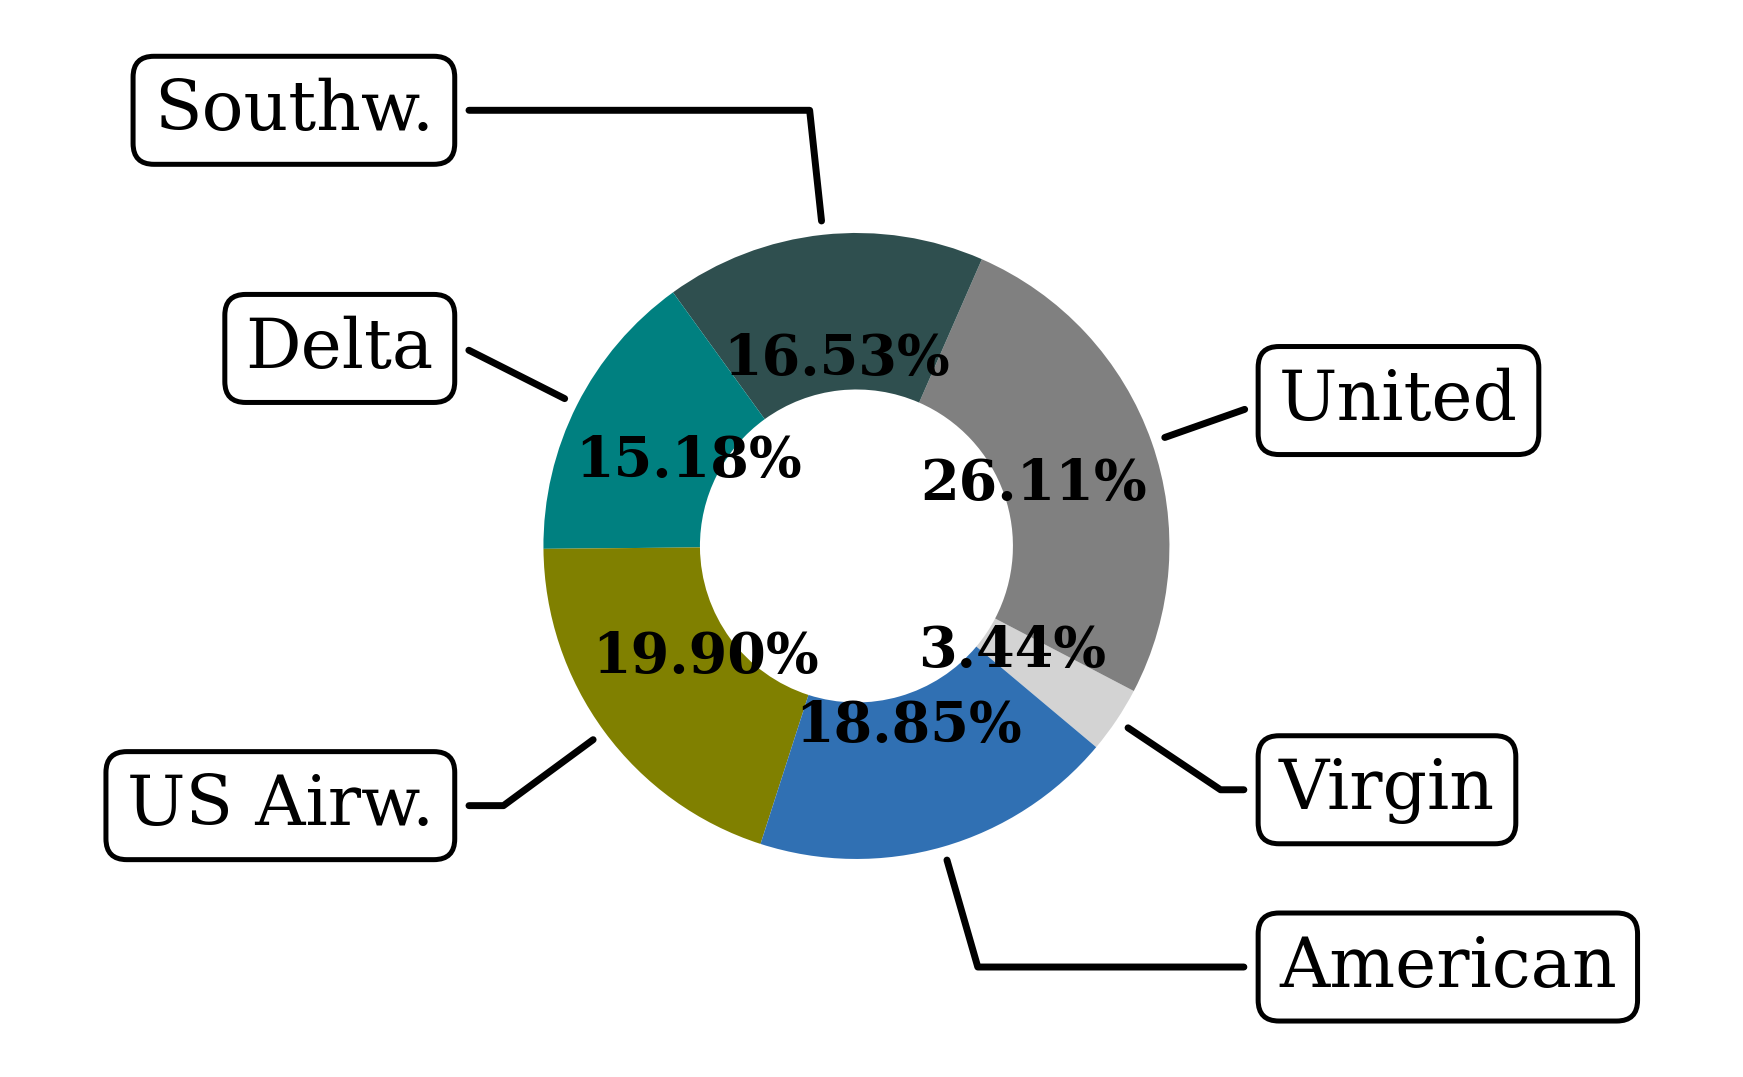
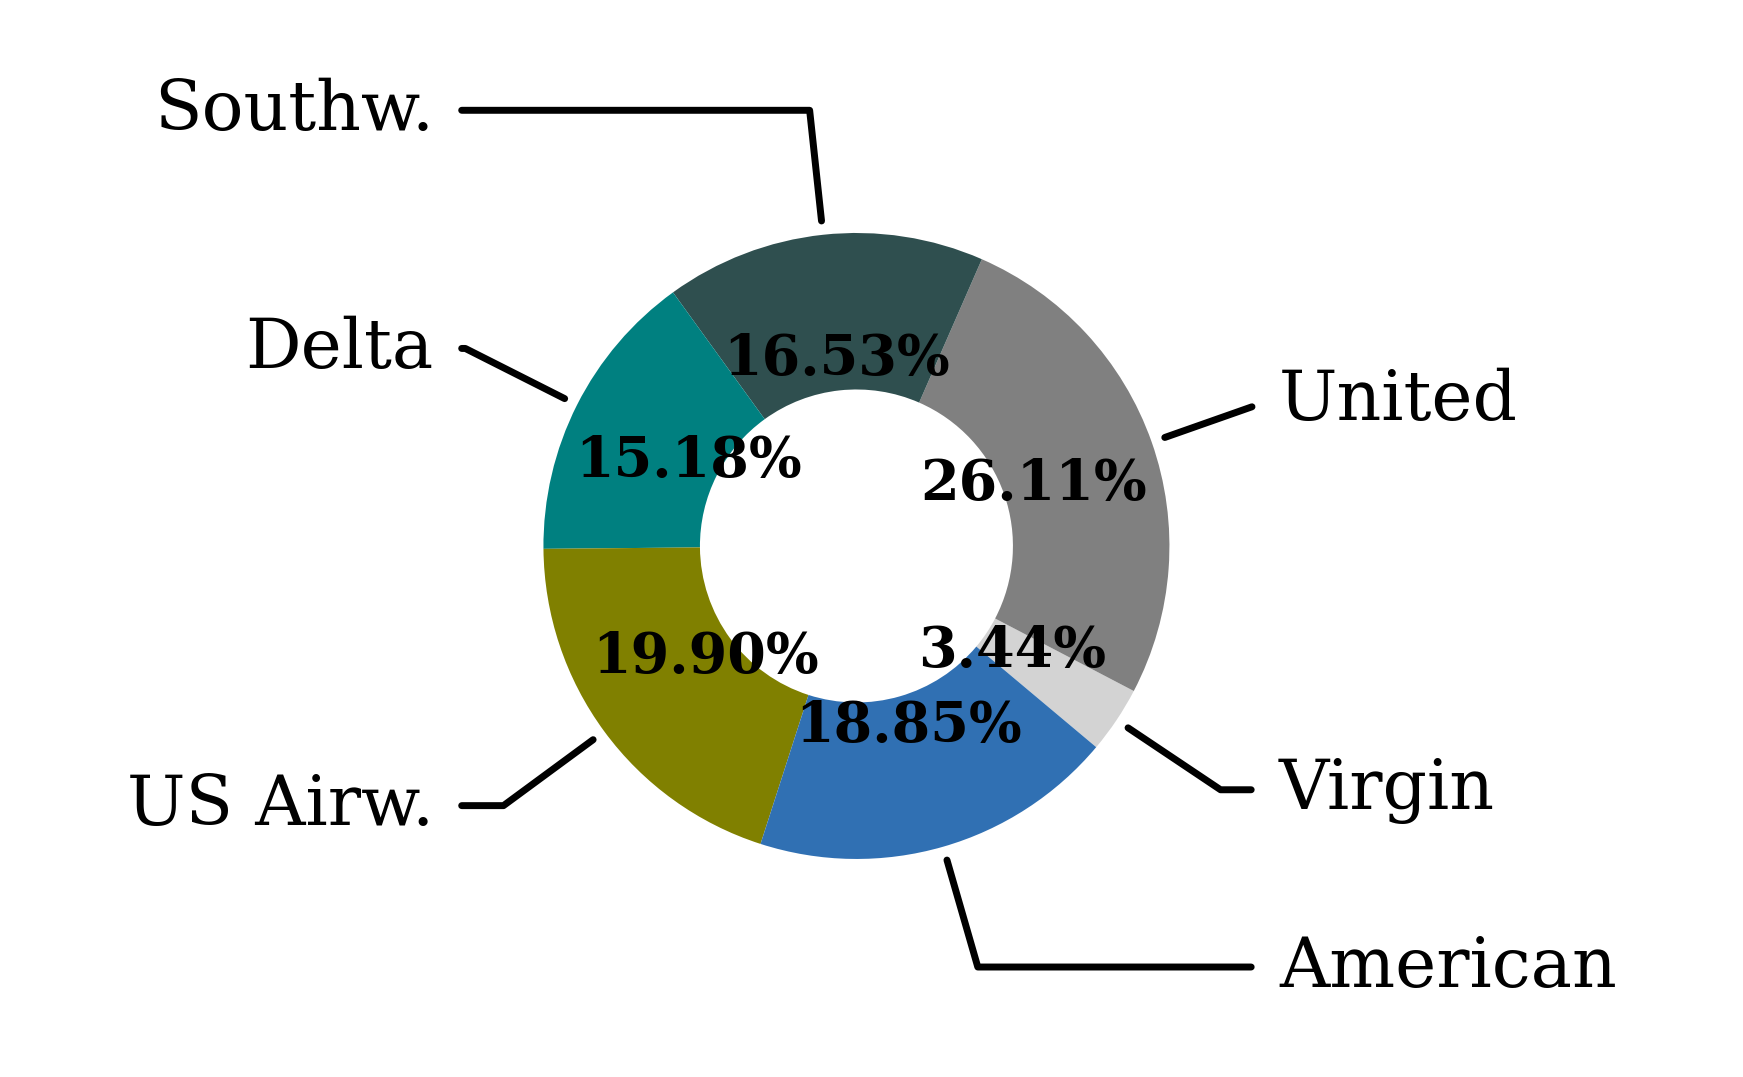
update plotting donut function

diff --git a/plotting_framework.py b/plotting_framework.py
@@ -290,8 +290,8 @@ def plot_sentiment_distribution(dict_air):
     wedges, texts, _ = ax.pie(tweet_counts, colors=colors_, wedgeprops=dict(width=0.5),
                               startangle=-40, autopct="%.2f%%", textprops={'fontsize': 8, 'weight': 'bold'})
 
-    bbox_props = dict(boxstyle="round,pad=0.3", fc="w", ec="k", lw=0.72)
-    kw = dict(arrowprops=dict(arrowstyle="-"), bbox=bbox_props, zorder=0, va="center")
+    # bbox_props = dict(boxstyle="round,pad=0.3", fc="w", ec="k", lw=0.72)
+    kw = dict(arrowprops=dict(arrowstyle="-"), zorder=0, va="center")
 
     for i, p in enumerate(wedges):
         ang = (p.theta2 - p.theta1)/2. + p.theta1
@@ -301,7 +301,7 @@ def plot_sentiment_distribution(dict_air):
         connectionstyle = "angle,angleA=0,angleB={}".format(ang)
         kw["arrowprops"].update({"connectionstyle": connectionstyle})
         ax.annotate(airlines[i], xy=(x, y), xytext=(1.35*np.sign(x), 1.4*y),
-                    horizontalalignment=horizont_align, **kw)
+                    horizontalalignment=horizont_align, fontsize=10, **kw)
 
     fig.tight_layout()
     time_of_analysis = str(datetime.now().strftime("%Y-%m-%d %H-%M-%S"))

diff --git a/fundamental_data_analysis.py b/fundamental_data_analysis.py
@@ -50,5 +50,5 @@ for airline in airlines:  # calculate distribution of tweet data among airlines
                      'count_ntr': count_ntr,
                      'count_pos': count_pos})
 
-plot_tweet_distribution(dict_air)
+# plot_tweet_distribution(dict_air)
 plot_sentiment_distribution(dict_air)
